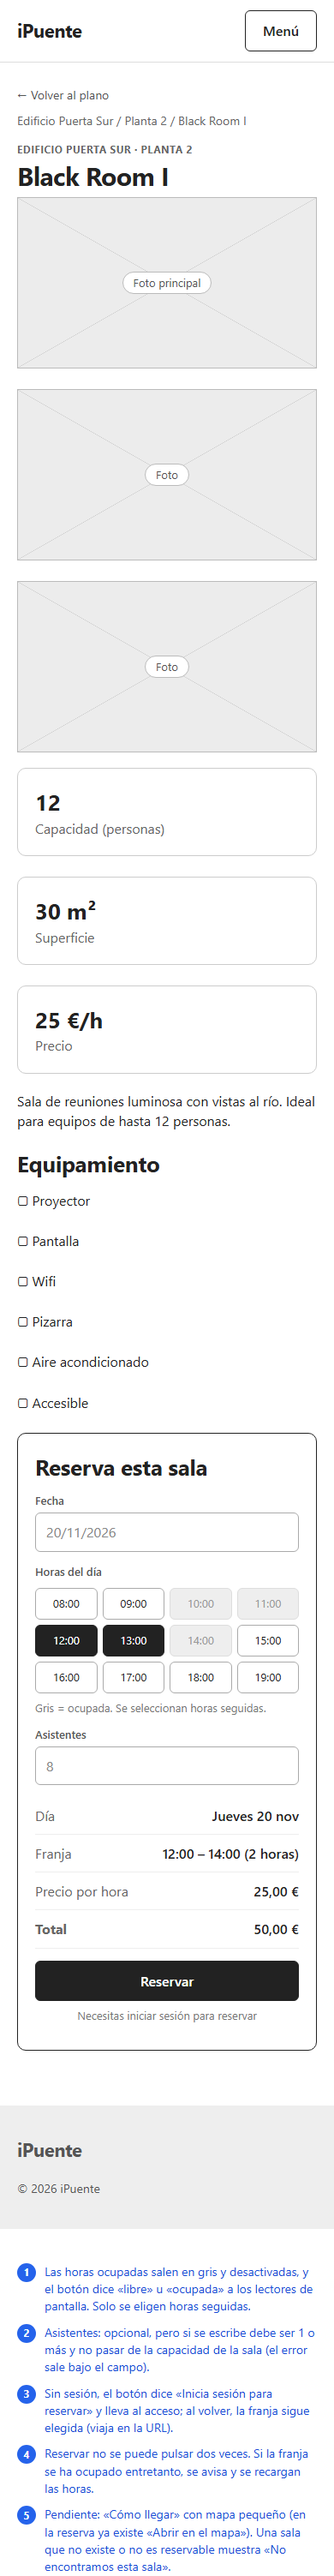
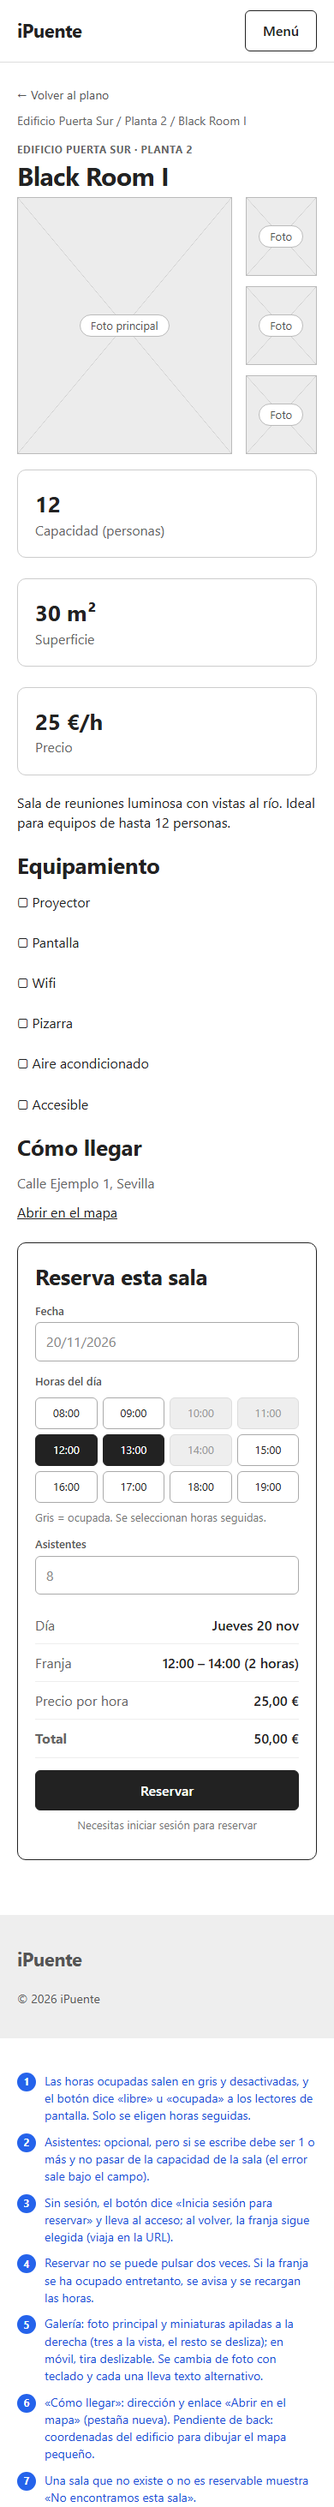
Wireframes de cliente v2: acceso, checkout, detalle, sala y mis reservas como quedaron en la app

diff --git a/docs/wireframes/09b-detalle-reserva.html b/docs/wireframes/09b-detalle-reserva.html
@@ -2,22 +2,26 @@
 <html lang="es"><head><meta charset="utf-8"><meta name="viewport" content="width=device-width,initial-scale=1"><title>Detalle de la reserva</title><link rel="stylesheet" href="wireframe.css"></head><body>
 <header class="hdr"><div class="wrap"><span class="logo">iPuente</span><nav class="nav"><span>Espacios</span><span>Para empresas</span><span>Cómo funciona</span><span>Contacto</span></nav><div class="acc"><span>Mis reservas</span><span><span class="avatar"></span> Ana ▾</span></div><span class="btn o menu-btn">Menú</span></div></header>
 
-<div class="wrap" style="max-width:900px">
+<div class="wrap">
  <span class="back">← Volver a mis reservas</span>
  <div class="grey" style="margin-bottom:14px;background:#eaf5ec">Reserva confirmada. Te esperamos.</div>
  <div class="row sp" style="margin-bottom:18px"><div><p class="mut" style="margin:0">Reserva IP-2041</p><h1 style="margin:0">Black Room I</h1></div><span class="badge ok">Confirmada</span></div>
- <div class="card"><div class="g2"><dl class="kv">
-   <div><dt>Fecha</dt><dd>Jueves 20 de noviembre de 2026</dd></div><div><dt>Horario</dt><dd>12:00 – 14:00 (2 horas)</dd></div>
-   <div><dt>Sala</dt><dd>2.01 · Black Room I</dd></div></dl><dl class="kv">
-   <div><dt>Planta y edificio</dt><dd>Planta 2 · Edificio Puerta Sur</dd></div><div><dt>Precio por hora</dt><dd>25,00 €</dd></div><div><dt>Total</dt><dd>50,00 €</dd></div></dl></div></div>
- <h3 style="margin-top:20px">Cómo llegar</h3><p class="mut">Calle Ejemplo 1, Sevilla</p><u>Abrir en el mapa</u>
- <h3 style="margin-top:20px">Política de cancelación</h3><p class="mut">Puedes cancelar mientras la reserva no haya empezado. Las horas quedan libres para otras personas.</p>
- <div class="row" style="margin-top:16px"><span class="btn o">Cancelar reserva</span><span class="btn g">Ver la sala</span><span class="btn off">Descargar factura</span></div>
- <p class="hint" style="margin-top:8px">La factura estará disponible cuando se active el pago online.</p>
+ <div class="side" style="grid-template-columns:minmax(0,1.4fr) minmax(0,1fr)">
+  <div><div class="card"><dl class="kv">
+    <div><dt>Fecha</dt><dd>Jueves 20 de noviembre de 2026</dd></div><div><dt>Horario</dt><dd>12:00 – 14:00 (2 horas)</dd></div>
+    <div><dt>Sala</dt><dd>2.01 · Black Room I</dd></div><div><dt>Planta y edificio</dt><dd>Planta 2 · Edificio Puerta Sur</dd></div></dl></div>
+   <h3 style="margin-top:20px">Cómo llegar</h3><p class="mut">Calle Ejemplo 1, Sevilla</p><u>Abrir en el mapa</u></div>
+  <aside><div class="card dark"><h2>Pago</h2>
+    <dl class="kv"><div><dt>25,00 € × 2 horas</dt><dd>50,00 €</dd></div><div><dt><b>Total</b></dt><dd style="font-size:22px">50,00 €</dd></div></dl>
+    <span class="btn off block" style="margin-top:12px">Descargar factura</span>
+    <p class="hint">La factura estará disponible cuando se active el pago online.</p>
+    <p class="center" style="margin:10px 0 0"><b>Cancelar reserva</b></p><p class="center mut" style="margin:6px 0 0">Ver la sala</p></div>
+   <div class="grey" style="margin-top:14px">Puedes cancelar mientras la reserva no haya empezado. Las horas quedan libres para otras personas.</div></aside>
+ </div>
  <div class="dash" style="margin-top:32px"><p class="tag">Variante: cancelada por el espacio</p>
   <div class="row sp"><h2 style="margin:0">Black Room I</h2><span class="badge line">Cancelada por el espacio</span></div>
   <div class="grey" style="margin:12px 0"><b>El espacio ha cancelado esta reserva.</b> Motivo: obras en el edificio.</div><span class="btn">Buscar otra sala</span></div>
 </div>
 <footer class="ftr"><div class="wrap"><span class="logo">iPuente</span><span>© 2026 iPuente</span></div></footer>
-<div class="notes"><p class="note"><b>1</b><span>Mismo componente «Detalle de reserva» que usarán empresa y admin: cambian solo las acciones.</span></p><p class="note"><b>2</b><span>«Cancelar reserva» solo aparece en reservas confirmadas futuras y abre el mismo modal que «Mis reservas»; tras cancelar, el estado se actualiza en la página.</span></p><p class="note"><b>3</b><span>El aviso verde solo se ve justo después de reservar. Otros estados: pendiente de pago, completada y cancelada por ti.</span></p><p class="note"><b>4</b><span>«Descargar factura» está desactivada con su explicación hasta que haya pago online. Una reserva que no existe o es ajena muestra «No encontramos esta reserva».</span></p></div>
+<div class="notes"><p class="note"><b>1</b><span>Mismo componente «Detalle de reserva» que usarán empresa y admin: cambian solo las acciones de la caja «Pago».</span></p><p class="note"><b>2</b><span>«Cancelar reserva» solo aparece en reservas confirmadas futuras y abre el mismo modal que «Mis reservas»; tras cancelar, el estado se actualiza en la página.</span></p><p class="note"><b>3</b><span>El aviso verde solo se ve justo después de reservar. Otros estados: pendiente de pago, completada y cancelada por ti.</span></p><p class="note"><b>4</b><span>«Descargar factura» está desactivada con su explicación hasta que haya pago online. Una reserva que no existe o es ajena muestra «404 · No encontramos esta reserva».</span></p></div>
 </body></html>

diff --git a/docs/wireframes/07-resumen-pago.html b/docs/wireframes/07-resumen-pago.html
@@ -2,23 +2,21 @@
 <html lang="es"><head><meta charset="utf-8"><meta name="viewport" content="width=device-width,initial-scale=1"><title>Revisa tu reserva</title><link rel="stylesheet" href="wireframe.css"></head><body>
 <header class="hdr"><div class="wrap"><span class="logo">iPuente</span><nav class="nav"><span>Espacios</span><span>Para empresas</span><span>Cómo funciona</span><span>Contacto</span></nav><div class="acc"><span>Mis reservas</span><span><span class="avatar"></span> Ana ▾</span></div><span class="btn o menu-btn">Menú</span></div></header>
 
-<div class="wrap" style="max-width:760px">
- <span class="back">← Volver a la sala</span>
- <h1>Revisa tu reserva</h1>
- <div class="card"><dl class="kv">
-  <div><dt>Sala</dt><dd><u>Black Room I</u></dd></div>
-  <div><dt>Planta y edificio</dt><dd>Planta 2 · Edificio Puerta Sur</dd></div>
-  <div><dt>Fecha</dt><dd>Jueves 20 de noviembre de 2026</dd></div>
-  <div><dt>Horario</dt><dd>12:00 – 14:00 (2 horas)</dd></div>
-  <div><dt>Precio</dt><dd>25,00 € × 2 horas</dd></div>
-  <div><dt><b>Total</b></dt><dd style="font-size:22px">50,00 €</dd></div></dl></div>
- <p class="mut" style="margin-top:16px">Puedes cancelar mientras la reserva no haya empezado. Tienes 15 minutos para pagar: después las horas vuelven a quedar libres.</p>
- <span class="btn" style="padding:14px 28px">Ir a pagar</span>
- <p class="hint" style="margin-top:8px">Pago seguro con Stripe</p>
+<div class="wrap">
+ <span class="back">← Volver a la sala</span><h1>Revisa tu reserva</h1>
+ <div class="side" style="grid-template-columns:minmax(0,1.4fr) minmax(0,1fr)">
+  <div><div class="card"><dl class="kv">
+    <div><dt>Sala</dt><dd><u>Black Room I</u></dd></div><div><dt>Planta y edificio</dt><dd>Planta 2 · Edificio Puerta Sur</dd></div>
+    <div><dt>Fecha</dt><dd>Jueves 20 de noviembre de 2026</dd></div><div><dt>Horario</dt><dd>12:00 – 14:00 (2 horas)</dd></div></dl></div>
+   <div class="grey" style="margin-top:16px">Puedes cancelar mientras la reserva no haya empezado. Tienes 15 minutos para pagar: después las horas vuelven a quedar libres.</div></div>
+  <aside class="card dark"><h2>Precio</h2>
+   <dl class="kv"><div><dt>25,00 € × 2 horas</dt><dd>50,00 €</dd></div><div><dt><b>Total</b></dt><dd style="font-size:22px">50,00 €</dd></div></dl>
+   <span class="btn block" style="margin-top:14px">Ir a pagar</span><p class="hint center" style="margin-top:8px">Pago seguro con Stripe</p></aside>
+ </div>
  <div class="dash" style="margin-top:36px"><p class="tag">Variante: tiempo agotado</p>
   <h2>Tiempo agotado</h2><p class="mut">Pasaron 15 minutos sin pagar y las horas han vuelto a quedar libres.</p>
   <span class="btn">Reservar de nuevo</span> <span class="btn o">Ver otras horas</span></div>
 </div>
 <footer class="ftr"><div class="wrap"><span class="logo">iPuente</span><span>© 2026 iPuente</span></div></footer>
-<div class="notes"><p class="note"><b>1</b><span>Solo se ve el resumen si la reserva es del usuario y está pendiente de pago. Una ya pagada dice «Esta reserva ya está pagada»; una que no existe, «No encontramos esta reserva».</span></p><p class="note"><b>2</b><span>«Ir a pagar» pide a la API la URL de Stripe y redirige solo a páginas https. No se puede pulsar dos veces. El importe es el que devuelve la API.</span></p><p class="note"><b>3</b><span>«Reservar de nuevo» solo aparece si la franja caducada sigue libre.</span></p><p class="note"><b>4</b><span>Pendiente de back: la API aún no tiene endpoint de pago; hasta entonces «Ir a pagar» avisa de que no está disponible. Sin foto ni asistentes (la reserva no los guarda).</span></p></div>
+<div class="notes"><p class="note"><b>1</b><span>Solo se ve el resumen si la reserva es del usuario y está pendiente de pago. Una ya pagada dice «Esta reserva ya está pagada»; una que no existe, «404 · No encontramos esta reserva».</span></p><p class="note"><b>2</b><span>«Ir a pagar» pide a la API la URL de Stripe y redirige solo a páginas https. No se puede pulsar dos veces. El importe es el que devuelve la API.</span></p><p class="note"><b>3</b><span>«Reservar de nuevo» solo aparece si la franja caducada sigue libre.</span></p><p class="note"><b>4</b><span>Pendiente de back: la API aún no tiene endpoint de pago; hasta entonces «Ir a pagar» avisa de que no está disponible. Sin foto ni asistentes (la reserva no los guarda).</span></p></div>
 </body></html>

diff --git a/docs/wireframes/04-sala.html b/docs/wireframes/04-sala.html
@@ -8,7 +8,8 @@
  <div class="side">
   <div>
    <p class="tag">Edificio Puerta Sur · Planta 2</p><h1>Black Room I</h1>
-   <div class="g3" style="margin:6px 0 18px"><div class="ph " style="min-height:200px"><span>Foto principal</span></div><div class="ph " style="min-height:200px"><span>Foto</span></div><div class="ph " style="min-height:200px"><span>Foto</span></div></div>
+   <div style="display:grid;grid-template-columns:3fr 1fr;gap:16px;margin:6px 0 18px"><div><div class="ph " style="min-height:300px"><span>Foto principal</span></div></div>
+    <div style="display:grid;gap:12px"><div class="ph " style="min-height:80px"><span>Foto</span></div><div class="ph " style="min-height:80px"><span>Foto</span></div><div class="ph " style="min-height:80px"><span>Foto</span></div></div></div>
    <div class="g3" style="margin-bottom:20px">
     <div class="card"><b style="font-size:26px">12</b><br><span class="mut">Capacidad (personas)</span></div>
     <div class="card"><b style="font-size:26px">30 m²</b><br><span class="mut">Superficie</span></div>
@@ -16,6 +17,7 @@
    <p>Sala de reuniones luminosa con vistas al río. Ideal para equipos de hasta 12 personas.</p>
    <h2 style="margin-top:20px">Equipamiento</h2>
    <div class="g3"><span>▢ Proyector</span><span>▢ Pantalla</span><span>▢ Wifi</span><span>▢ Pizarra</span><span>▢ Aire acondicionado</span><span>▢ Accesible</span></div>
+   <h2 style="margin-top:20px">Cómo llegar</h2><p class="mut">Calle Ejemplo 1, Sevilla</p><u>Abrir en el mapa</u>
   </div>
   <aside class="card dark stick">
    <h2>Reserva esta sala</h2>
@@ -30,5 +32,5 @@
  </div>
 </div>
 <footer class="ftr"><div class="wrap"><span class="logo">iPuente</span><span>© 2026 iPuente</span></div></footer>
-<div class="notes"><p class="note"><b>1</b><span>Las horas ocupadas salen en gris y desactivadas, y el botón dice «libre» u «ocupada» a los lectores de pantalla. Solo se eligen horas seguidas.</span></p><p class="note"><b>2</b><span>Asistentes: opcional, pero si se escribe debe ser 1 o más y no pasar de la capacidad de la sala (el error sale bajo el campo).</span></p><p class="note"><b>3</b><span>Sin sesión, el botón dice «Inicia sesión para reservar» y lleva al acceso; al volver, la franja sigue elegida (viaja en la URL).</span></p><p class="note"><b>4</b><span>Reservar no se puede pulsar dos veces. Si la franja se ha ocupado entretanto, se avisa y se recargan las horas.</span></p><p class="note"><b>5</b><span>Pendiente: «Cómo llegar» con mapa pequeño (en la reserva ya existe «Abrir en el mapa»). Una sala que no existe o no es reservable muestra «No encontramos esta sala».</span></p></div>
+<div class="notes"><p class="note"><b>1</b><span>Las horas ocupadas salen en gris y desactivadas, y el botón dice «libre» u «ocupada» a los lectores de pantalla. Solo se eligen horas seguidas.</span></p><p class="note"><b>2</b><span>Asistentes: opcional, pero si se escribe debe ser 1 o más y no pasar de la capacidad de la sala (el error sale bajo el campo).</span></p><p class="note"><b>3</b><span>Sin sesión, el botón dice «Inicia sesión para reservar» y lleva al acceso; al volver, la franja sigue elegida (viaja en la URL).</span></p><p class="note"><b>4</b><span>Reservar no se puede pulsar dos veces. Si la franja se ha ocupado entretanto, se avisa y se recargan las horas.</span></p><p class="note"><b>5</b><span>Galería: foto principal y miniaturas apiladas a la derecha (tres a la vista, el resto se desliza); en móvil, tira deslizable. Se cambia de foto con teclado y cada una lleva texto alternativo.</span></p><p class="note"><b>6</b><span>«Cómo llegar»: dirección y enlace «Abrir en el mapa» (pestaña nueva). Pendiente de back: coordenadas del edificio para dibujar el mapa pequeño.</span></p><p class="note"><b>7</b><span>Una sala que no existe o no es reservable muestra «No encontramos esta sala».</span></p></div>
 </body></html>

diff --git a/docs/wireframes/09-mis-reservas.html b/docs/wireframes/09-mis-reservas.html
@@ -4,16 +4,15 @@
 
 <div class="wrap" style="max-width:900px">
  <h1 style="margin-top:36px">Mis reservas</h1>
- <h2 style="margin-top:18px">Próximas (2)</h2>
+ <div class="row" style="margin:18px 0 16px"><span class="chip on">Próximas (2)</span><span class="chip">Pasadas (1)</span></div>
  <div class="card" style="margin-bottom:12px"><div class="row sp"><div><h3>Black Room I</h3><p class="mut" style="margin:0">Jueves 20 nov · 12:00 – 14:00 (2 horas)</p></div><div style="text-align:right"><span class="badge ok">Confirmada</span><br><b style="font-size:20px">50,00 €</b></div></div><div class="row" style="justify-content:flex-end;margin-top:8px"><u>Ver detalle</u><span class="btn g">Cancelar</span></div></div>
  <div class="card" style="margin-bottom:12px"><div class="row sp"><div><h3>Sala Grande</h3><p class="mut" style="margin:0">Martes 25 nov · 09:00 – 13:00 (4 horas)</p></div><div style="text-align:right"><span class="badge ">Pendiente de pago</span><br><b style="font-size:20px">100,00 €</b></div></div><div class="row" style="justify-content:flex-end;margin-top:8px"><u>Ver detalle</u><span class="btn">Pagar ahora</span><span class="btn g">Cancelar</span></div></div>
- <h2 style="margin-top:24px">Pasadas (1)</h2>
- <div class="card" style="margin-bottom:12px"><div class="row sp"><div><h3>Box 22</h3><p class="mut" style="margin:0">Lunes 3 nov · 10:00 – 11:00 (1 hora)</p></div><div style="text-align:right"><span class="badge ">Completada</span><br><b style="font-size:20px">25,00 €</b></div></div><div class="row" style="justify-content:flex-end;margin-top:8px"><u>Ver detalle</u></div></div>
+ <p class="hint">«Pasadas» enseña las completadas y canceladas; sin ninguna, «No tienes reservas pasadas».</p>
  <div class="dash" style="margin-top:28px"><p class="tag">Variante: sin reservas</p><h3>Aún no tienes reservas</h3><p class="mut">Elige un edificio, una planta y una sala, y reserva las horas que necesites.</p><span class="btn">Buscar salas</span></div>
  <div class="dash" style="margin-top:20px"><p class="tag">Modal: cancelar reserva</p>
   <div class="modal"><h3>¿Cancelar esta reserva?</h3><p class="mut">Black Room I, jueves 20 de noviembre. Las horas quedarán libres para otras personas.</p>
    <div class="row" style="justify-content:flex-end"><span class="btn o">Volver</span><span class="btn">Cancelar reserva</span></div></div></div>
 </div>
 <footer class="ftr"><div class="wrap"><span class="logo">iPuente</span><span>© 2026 iPuente</span></div></footer>
-<div class="notes"><p class="note"><b>1</b><span>Próximas y pasadas van en dos bloques con su recuento. Las pendientes de pago que ya han caducado no se muestran.</span></p><p class="note"><b>2</b><span>«Cancelar» solo aparece en reservas confirmadas que aún no han empezado; abre un modal y, tras cancelar, la lista se actualiza y se avisa del resultado.</span></p><p class="note"><b>3</b><span>Cada estado lleva su etiqueta con texto, no solo color. «Ver detalle» abre la pantalla 09b.</span></p><p class="note"><b>4</b><span>Pendiente: foto y edificio/planta en cada tarjeta (el listado de la API solo trae sala, fecha, importe y estado).</span></p></div>
+<div class="notes"><p class="note"><b>1</b><span>Próximas y Pasadas van en pestañas con su recuento (se manejan con las flechas). Las pendientes de pago que ya han caducado no se muestran.</span></p><p class="note"><b>2</b><span>«Cancelar» solo aparece en reservas confirmadas que aún no han empezado; abre un modal y, tras cancelar, la lista se actualiza y se avisa del resultado.</span></p><p class="note"><b>3</b><span>Cada estado lleva su etiqueta con texto, no solo color. «Ver detalle» abre la pantalla 09b.</span></p><p class="note"><b>4</b><span>Pendiente: foto y edificio/planta en cada tarjeta (el listado de la API solo trae sala, fecha, importe y estado).</span></p></div>
 </body></html>

diff --git a/docs/wireframes/05-login.html b/docs/wireframes/05-login.html
@@ -1,18 +1,5 @@
 <!doctype html>
 <html lang="es"><head><meta charset="utf-8"><meta name="viewport" content="width=device-width,initial-scale=1"><title>Iniciar sesión</title><link rel="stylesheet" href="wireframe.css"></head><body>
-
-<div class="wrap" style="display:grid;place-items:center;min-height:640px;padding:40px 20px">
- <div class="card" style="width:min(100%,440px);padding:32px">
-  <span class="logo">iPuente</span>
-  <h1 style="margin-top:18px;font-size:34px">Iniciar sesión</h1>
-  <p class="mut">Entra para reservar salas y ver tus reservas.</p>
-  <div class="field"><label>Correo</label><div class="input">tu@email.com</div></div>
-  <div class="field"><label>Contraseña</label><div class="input">••••••••</div></div>
-  <p style="text-decoration:underline">¿Has olvidado la contraseña?</p>
-  <span class="btn block">Entrar</span>
-  <p class="center mut" style="margin:14px 0">o</p>
-  <span class="btn o block">Continuar con Google</span>
-  <p class="mut center" style="margin-top:18px">¿No tienes cuenta? <u>Crea una</u></p>
- </div></div>
-<div class="notes"><p class="note"><b>1</b><span>Pantalla sin cabecera ni pie (AuthLayout): el logo vuelve al inicio. Un solo acceso para cliente, empresa y admin.</span></p><p class="note"><b>2</b><span>Tras entrar se va a la página de la que se venía; si no, según el rol: cliente a la home, empresa a /company y admin a /admin.</span></p><p class="note"><b>3</b><span>Los errores salen en español bajo cada campo o en un aviso (credenciales incorrectas, demasiados intentos, sin conexión). El botón no se pulsa dos veces.</span></p><p class="note"><b>4</b><span>Pendiente de diseño: imagen del edificio a un lado. «Continuar con Google» depende de la configuración de Google Cloud.</span></p></div>
+<div class="split" style="min-height:700px"><div class="vis" style="background:#e4e4e4;border-right:1px solid #ccc;display:grid;place-items:center;text-align:center;padding:40px"><div><div style="font-size:72px;line-height:1">⌂</div><h2 style="margin-top:16px">Elige tu sala en el plano y resérvala por horas.</h2></div></div><div class="panel"><div><span class="logo">iPuente</span><h1 style="margin-top:18px;font-size:34px">Iniciar sesión</h1><p class="mut">Entra para reservar salas y ver tus reservas.</p><span class="btn o block">Continuar con Google</span><p class="center mut" style="margin:14px 0">o</p><div class="field"><label>Correo</label><div class="input">tu@email.com</div></div><div class="field"><label>Contraseña</label><div class="input">••••••••</div></div><p style="text-decoration:underline">¿Has olvidado la contraseña?</p><span class="btn block">Entrar</span><p class="mut" style="margin-top:18px">¿No tienes cuenta? <u>Crea una</u></p></div></div></div>
+<div class="notes"><p class="note"><b>1</b><span>Pantalla sin cabecera ni pie (AuthLayout): panel de marca a la izquierda (solo en escritorio) y formulario a la derecha; el logo vuelve al inicio.</span></p><p class="note"><b>2</b><span>«Continuar con Google» va arriba. Tras entrar se va a la página de la que se venía; si no, según el rol: cliente a la home, empresa a /company y admin a /admin.</span></p><p class="note"><b>3</b><span>Los errores salen en español bajo cada campo o en un aviso (credenciales incorrectas, demasiados intentos, sin conexión). El botón no se pulsa dos veces.</span></p><p class="note"><b>4</b><span>Google depende de la configuración de la pantalla de consentimiento en Google Cloud (pendiente).</span></p></div>
 </body></html>

diff --git a/docs/wireframes/06-registro.html b/docs/wireframes/06-registro.html
@@ -1,20 +1,5 @@
 <!doctype html>
 <html lang="es"><head><meta charset="utf-8"><meta name="viewport" content="width=device-width,initial-scale=1"><title>Crear cuenta</title><link rel="stylesheet" href="wireframe.css"></head><body>
-
-<div class="wrap" style="display:grid;place-items:center;min-height:760px;padding:40px 20px">
- <div class="card" style="width:min(100%,440px);padding:32px">
-  <span class="logo">iPuente</span>
-  <h1 style="margin-top:18px;font-size:34px">Crear cuenta</h1>
-  <p class="mut">Con tu cuenta podrás reservar salas y consultar tus reservas.</p>
-  <div class="field"><label>Nombre</label><div class="input">Ana García</div></div>
-  <div class="field"><label>Correo</label><div class="input">tu@email.com</div></div>
-  <div class="field"><label>Contraseña</label><div class="input">••••••••</div><span class="hint">Mínimo 8 caracteres.</span></div>
-  <div class="field"><label>Repite la contraseña</label><div class="input err">••••••</div><span class="errtxt">Las contraseñas no coinciden.</span></div>
-  <p>▢ Acepto la política de privacidad</p>
-  <span class="btn block">Crear cuenta</span>
-  <p class="center mut" style="margin:14px 0">o</p>
-  <span class="btn o block">Continuar con Google</span>
-  <p class="mut center" style="margin-top:18px">¿Ya tienes cuenta? <u>Inicia sesión</u></p>
- </div></div>
+<div class="split" style="min-height:900px"><div class="vis" style="background:#e4e4e4;border-right:1px solid #ccc;display:grid;place-items:center;text-align:center;padding:40px"><div><div style="font-size:72px;line-height:1">⌂</div><h2 style="margin-top:16px">Elige tu sala en el plano y resérvala por horas.</h2></div></div><div class="panel"><div><span class="logo">iPuente</span><h1 style="margin-top:18px;font-size:34px">Crear cuenta</h1><p class="mut">Con tu cuenta podrás reservar salas y consultar tus reservas.</p><span class="btn o block">Continuar con Google</span><p class="center mut" style="margin:14px 0">o</p><div class="field"><label>Nombre</label><div class="input">Ana García</div></div><div class="field"><label>Correo</label><div class="input">tu@email.com</div></div><div class="field"><label>Contraseña</label><div class="input">••••••••</div><span class="hint">Mínimo 8 caracteres.</span></div><div class="field"><label>Repite la contraseña</label><div class="input err">••••••</div><span class="errtxt">Las contraseñas no coinciden.</span></div><p>▢ Acepto la política de privacidad</p><span class="btn block">Crear cuenta</span><p class="mut" style="margin-top:18px">¿Ya tienes cuenta? <u>Inicia sesión</u></p></div></div></div>
 <div class="notes"><p class="note"><b>1</b><span>Valida en el front: nombre, correo válido, contraseña de al menos 8 caracteres, las dos coinciden y la privacidad está aceptada. Cada error sale bajo su campo.</span></p><p class="note"><b>2</b><span>Los campos llevan su autocomplete (name, email, new-password). Tras crear la cuenta se vuelve a donde se estaba.</span></p><p class="note"><b>3</b><span>El error «ya existe una cuenta con este correo» sale como aviso y lleva a iniciar sesión.</span></p></div>
 </body></html>

diff --git a/docs/wireframes/05c-recuperar-contrasena-nueva.html b/docs/wireframes/05c-recuperar-contrasena-nueva.html
@@ -1,20 +1,5 @@
 <!doctype html>
 <html lang="es"><head><meta charset="utf-8"><meta name="viewport" content="width=device-width,initial-scale=1"><title>Nueva contraseña</title><link rel="stylesheet" href="wireframe.css"></head><body>
-
-<div class="wrap" style="display:grid;place-items:center;min-height:640px;padding:40px 20px">
- <div style="width:min(100%,440px)">
-  <div class="card" style="padding:32px">
-   <span class="logo">iPuente</span>
-   <h1 style="margin-top:18px;font-size:34px">Nueva contraseña</h1>
-   <p class="mut">Elige una contraseña nueva para ana@email.com.</p>
-   <div class="field"><label>Contraseña nueva</label><div class="input">••••••••</div><span class="hint">Mínimo 8 caracteres.</span></div>
-   <div class="field"><label>Repite la contraseña</label><div class="input">••••••••</div></div>
-   <span class="btn block">Cambiar contraseña</span>
-  </div>
-  <div class="dash" style="margin-top:22px"><p class="tag">Variante: enlace caducado o ya usado</p>
-   <h3>Enlace caducado</h3><p class="mut">Este enlace ya no sirve: ha caducado o ya se ha usado.</p><span class="btn">Pedir un enlace nuevo</span></div>
-  <div class="dash" style="margin-top:16px"><p class="tag">Variante: contraseña cambiada</p>
-   <div class="grey">Contraseña cambiada.</div><span class="btn" style="margin-top:12px">Iniciar sesión</span></div>
- </div></div>
+<div class="split" style="min-height:900px"><div class="vis" style="background:#e4e4e4;border-right:1px solid #ccc;display:grid;place-items:center;text-align:center;padding:40px"><div><div style="font-size:72px;line-height:1">⌂</div><h2 style="margin-top:16px">Elige tu sala en el plano y resérvala por horas.</h2></div></div><div class="panel"><div><span class="logo">iPuente</span><h1 style="margin-top:18px;font-size:34px">Nueva contraseña</h1><p class="mut">Elige una contraseña nueva para ana@email.com.</p><div class="field"><label>Contraseña nueva</label><div class="input">••••••••</div><span class="hint">Mínimo 8 caracteres.</span></div><div class="field"><label>Repite la contraseña</label><div class="input">••••••••</div></div><span class="btn block">Cambiar contraseña</span><div class="dash" style="margin-top:22px"><p class="tag">Variante: enlace caducado o ya usado</p><h3>Enlace caducado</h3><p class="mut">Este enlace ya no sirve: ha caducado o ya se ha usado.</p><span class="btn">Pedir un enlace nuevo</span></div><div class="dash" style="margin-top:16px"><p class="tag">Variante: contraseña cambiada</p><div class="grey">Contraseña cambiada.</div><span class="btn" style="margin-top:12px">Iniciar sesión</span></div></div></div></div>
 <div class="notes"><p class="note"><b>1</b><span>El código del enlace (oobCode) se lee de la URL y se comprueba antes de enseñar el formulario («Comprobando el enlace…»).</span></p><p class="note"><b>2</b><span>Sin código, con código caducado o ya usado se ve «Enlace caducado» con un botón para pedir otro.</span></p></div>
 </body></html>

diff --git a/docs/wireframes/05b-recuperar-contrasena.html b/docs/wireframes/05b-recuperar-contrasena.html
@@ -1,18 +1,5 @@
 <!doctype html>
 <html lang="es"><head><meta charset="utf-8"><meta name="viewport" content="width=device-width,initial-scale=1"><title>Recuperar contraseña</title><link rel="stylesheet" href="wireframe.css"></head><body>
-
-<div class="wrap" style="display:grid;place-items:center;min-height:560px;padding:40px 20px">
- <div style="width:min(100%,440px)">
-  <div class="card" style="padding:32px">
-   <span class="logo">iPuente</span>
-   <h1 style="margin-top:18px;font-size:34px">Recuperar contraseña</h1>
-   <p class="mut">Te enviamos un enlace para elegir una contraseña nueva.</p>
-   <div class="field"><label>Correo</label><div class="input">tu@email.com</div></div>
-   <span class="btn block">Enviar enlace</span>
-   <p class="mut center" style="margin-top:18px"><u>Volver a iniciar sesión</u></p>
-  </div>
-  <div class="dash" style="margin-top:22px"><p class="tag">Variante: enlace enviado</p>
-   <div class="grey">Si hay una cuenta con ese correo, te hemos enviado el enlace. Revisa también la carpeta de spam.</div></div>
- </div></div>
+<div class="split" style="min-height:680px"><div class="vis" style="background:#e4e4e4;border-right:1px solid #ccc;display:grid;place-items:center;text-align:center;padding:40px"><div><div style="font-size:72px;line-height:1">⌂</div><h2 style="margin-top:16px">Elige tu sala en el plano y resérvala por horas.</h2></div></div><div class="panel"><div><span class="logo">iPuente</span><h1 style="margin-top:18px;font-size:34px">Recuperar contraseña</h1><p class="mut">Te enviamos un enlace para elegir una contraseña nueva.</p><div class="field"><label>Correo</label><div class="input">tu@email.com</div></div><span class="btn block">Enviar enlace</span><p class="mut" style="margin-top:18px"><u>Volver a iniciar sesión</u></p><div class="dash" style="margin-top:22px"><p class="tag">Variante: enlace enviado</p><div class="grey">Si hay una cuenta con ese correo, te hemos enviado el enlace. Revisa también la carpeta de spam.</div></div></div></div></div>
 <div class="notes"><p class="note"><b>1</b><span>El mensaje es el mismo exista o no la cuenta, para no revelar qué correos están registrados.</span></p><p class="note"><b>2</b><span>Un correo con formato incorrecto se avisa bajo el campo antes de enviar nada.</span></p></div>
 </body></html>
